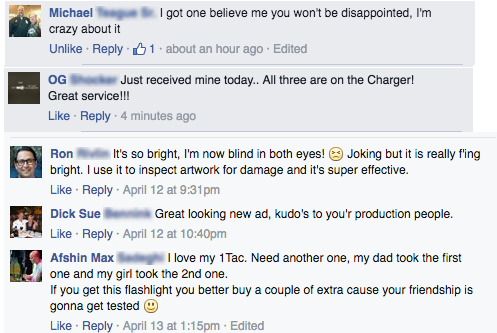
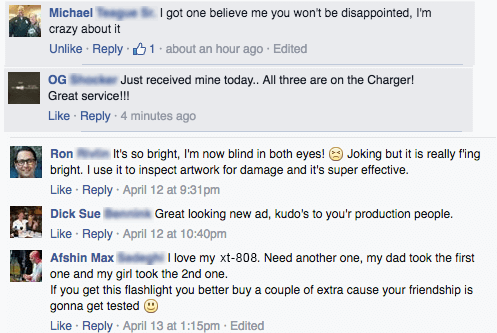
new images for tm3

Changed region(s): [[0.4225, 0.7508, 0.9658, 0.8108]]

diff --git a/flashlight/tm3.html b/flashlight/tm3.html
@@ -48,7 +48,7 @@
             <p>With the rise of domestic terrorism and stricter gun laws to contend with, Americans are searching for better ways to prepared for any situation. </p>
 
             <p><b>The Solution?</b></p>
-            <p>Simply put; a flashlight! And not just any flashlight… <a class="ilink" href="/">The TC-1200 Military Grade Flashlight from 1Tac.com!</a> It has just been released to the public and is already going viral. </p>
+            <p>Simply put; a flashlight! And not just any flashlight… <a class="ilink" href="/">The XT-808 Military Grade Flashlight from Tactical Mastery!</a> It has just been released to the public and is already going viral. </p>
             <p>It is amazingly bright (1200 Lumens), has a long lasting battery life and is made from military grade aluminum for extra durability. Its blinding lamp strength, of 1200 lumens, can be seen for up to 2 miles away. At less than 6 inches in length, it is compact and light weight which makes it perfect for taking with you anywhere you go.</p>
 
             <p><b>Survival Professionals Note:</b></p>
@@ -79,7 +79,7 @@
                 <div class="tm3-page__grid-7">
                     <a class="ilink" href="/" class="ilink"><img src="images/tm3/item2.jpg" alt="" width="594" height="158"></a>
                     <p>Tactical flashlights like the<a class="ilink" href="/">Tactical Mastery XT-808</a> are used by the U.S. Navy Seals, the Coast Guard, Firemen, Policemen, U.S. Search and Rescue and now American citizens.  </p>
-                    <a class="ilink" href="/" class="ilink"><img src="images/tm3/1tac_flash.jpg" width="600" height="450" alt=""></a>
+                    <a class="ilink" href="/" class="ilink"><img src="images/tm3/tm-1.jpg" width="600" height="450" alt=""></a>
                     <p><b>These tactical Flashlights are selling for 75% off their normal price!</b> So it's a good time to get them at a discounted price. If you want to make sure you and your loved ones are always prepared for the worst, this flashlight is a great start. It has our vote!<br> <b>You Can Also Upgrade to a Tactical Kit at 75% Off!</b></p>
                 </div>
 
@@ -93,8 +93,8 @@
                 </div>
 
                 <div class="tm3-page__grid-7">
-                    <a class="ilink" href="/" class="ilink"><img class="img-responsive" src="images/tm3/1tac_opencase.jpg" width="600" height="450"></a>
-                    <a class="ilink" href="/" class="ilink"><img class=" img-responsive" src="images/tm3/tc1200-video2.jpg" width="600" height="450"></a>
+                    <a class="ilink" href="/" class="ilink"><img class="img-responsive" src="images/tm3/tm-case.jpg" width="600" height="450"></a>
+                    <a class="ilink" href="/" class="ilink"><img class=" img-responsive" src="images/tm3/video.jpg" width="600" height="450"></a>
                 </div>
             </div>
 
